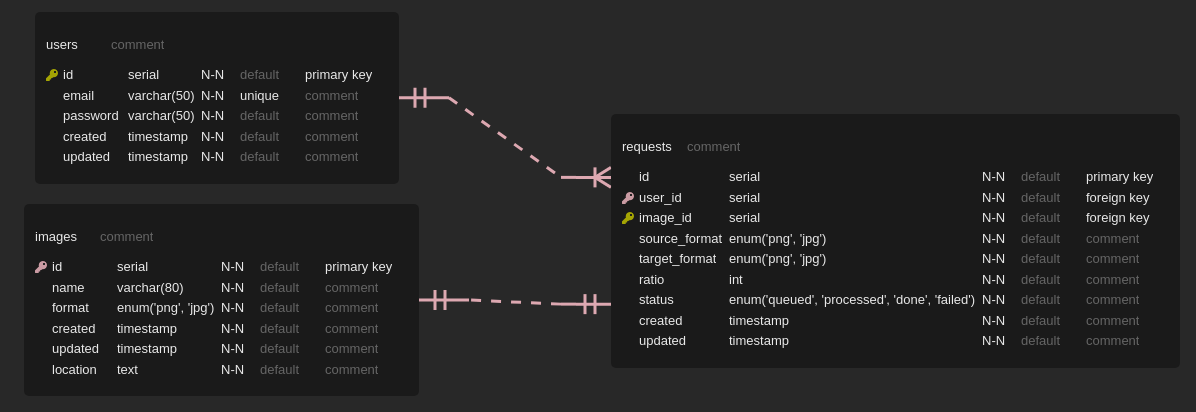
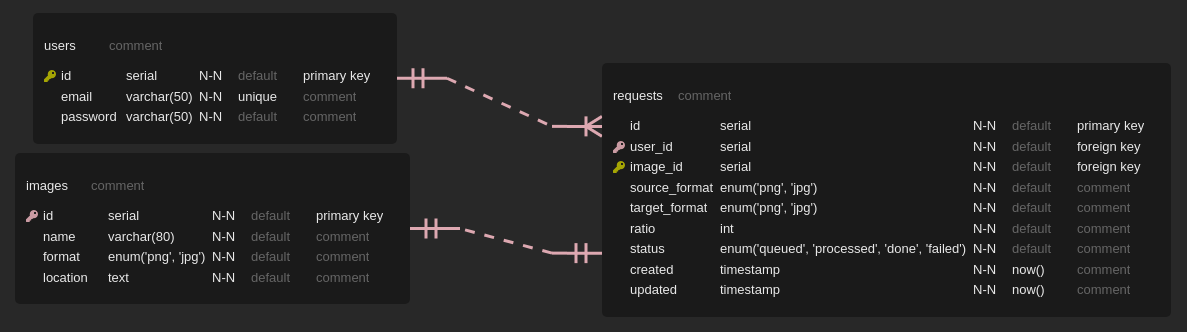
Fix db.sql: add default values and additional fields

diff --git a/README.md b/README.md
@@ -1,4 +1,4 @@
-# photo-converter
+# image-converter
 Service that expose a RESTful API to convert JPEG to PNG and vice versa and compress the image 
 with the compression ratio specified by the user. The user has the ability to view
 the history and status of their requests (for example, queued, processed, completed) and upload 
@@ -6,11 +6,11 @@ the original image and the processed one.
 # Architecture Diagram
 ![alt text](./docs/architecture-diagram.png)
 # Endpoints
-- /user/requests - view user requests history [GET]
+- /requests - view user requests history [GET]
 - /user/login - user authorization [POST]
 - /user/signup - user registration [POST]
 - /user/logout - log out of the user [GET]
-- /convert - convert photo [POST]
-- /download/{photoId} - download needed photo [GET]
+- /conversion - convert needed photo [POST]
+- /photos/{photoId} - get needed image [GET]
 # Database Scheme
 ![alt text](./docs/db.png)
